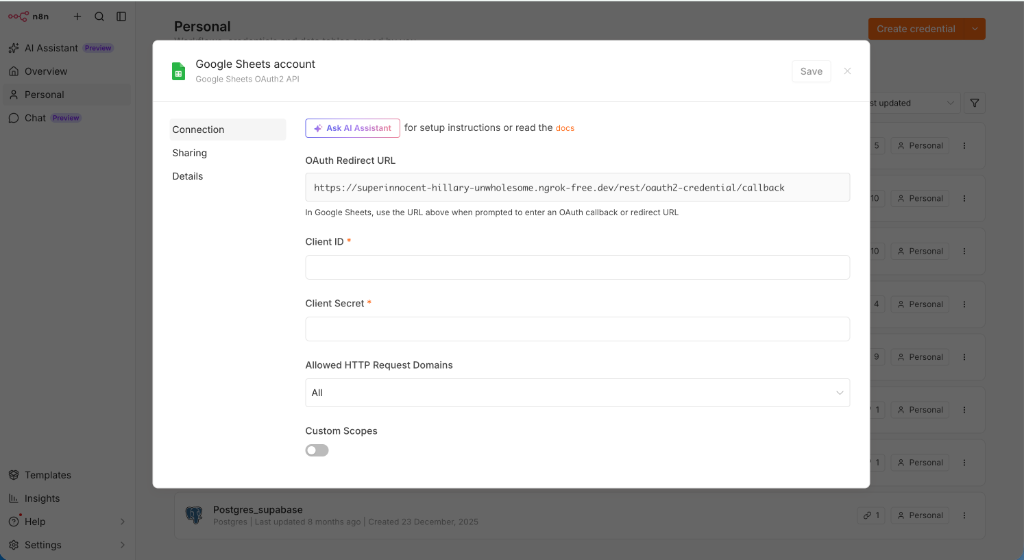
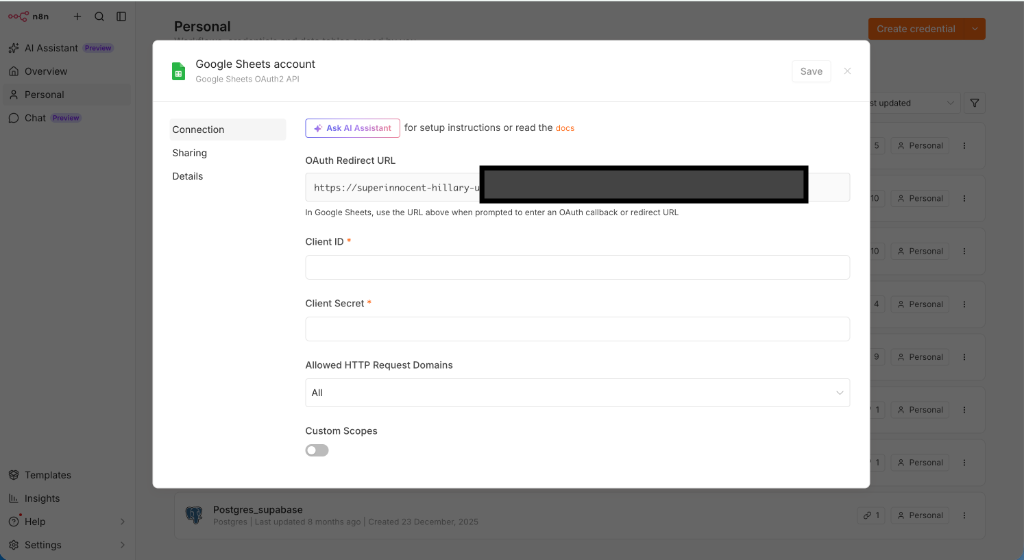
modify

Changed region(s): [[0.4688, 0.2732, 0.8125, 0.3643]]

diff --git a/google_cloud設定/README.md b/google_cloud設定/README.md
@@ -106,3 +106,10 @@
    - 複製完成後在 Google 彈出視窗點擊「**確定**」。
 
    ![OAuth 用戶端已建立 - 取得 ID 與密碼](./images/用戶端已建立.png)
+
+4. **儲存憑證並發起 Google 帳號授權 (Sign in with Google)**
+   - 確認 **Client ID** 與 **Client Secret** 均已正確填入。
+   - 點擊右上角的「**Save**」按鈕儲存憑證。
+   - 儲存成功後，點擊上方提示區塊中的「**Sign in with Google**」按鈕，發起 Google 帳號授權流程。
+
+   ![n8n 儲存憑證並點擊 Sign in with Google](./images/n8n登入Google.png)
